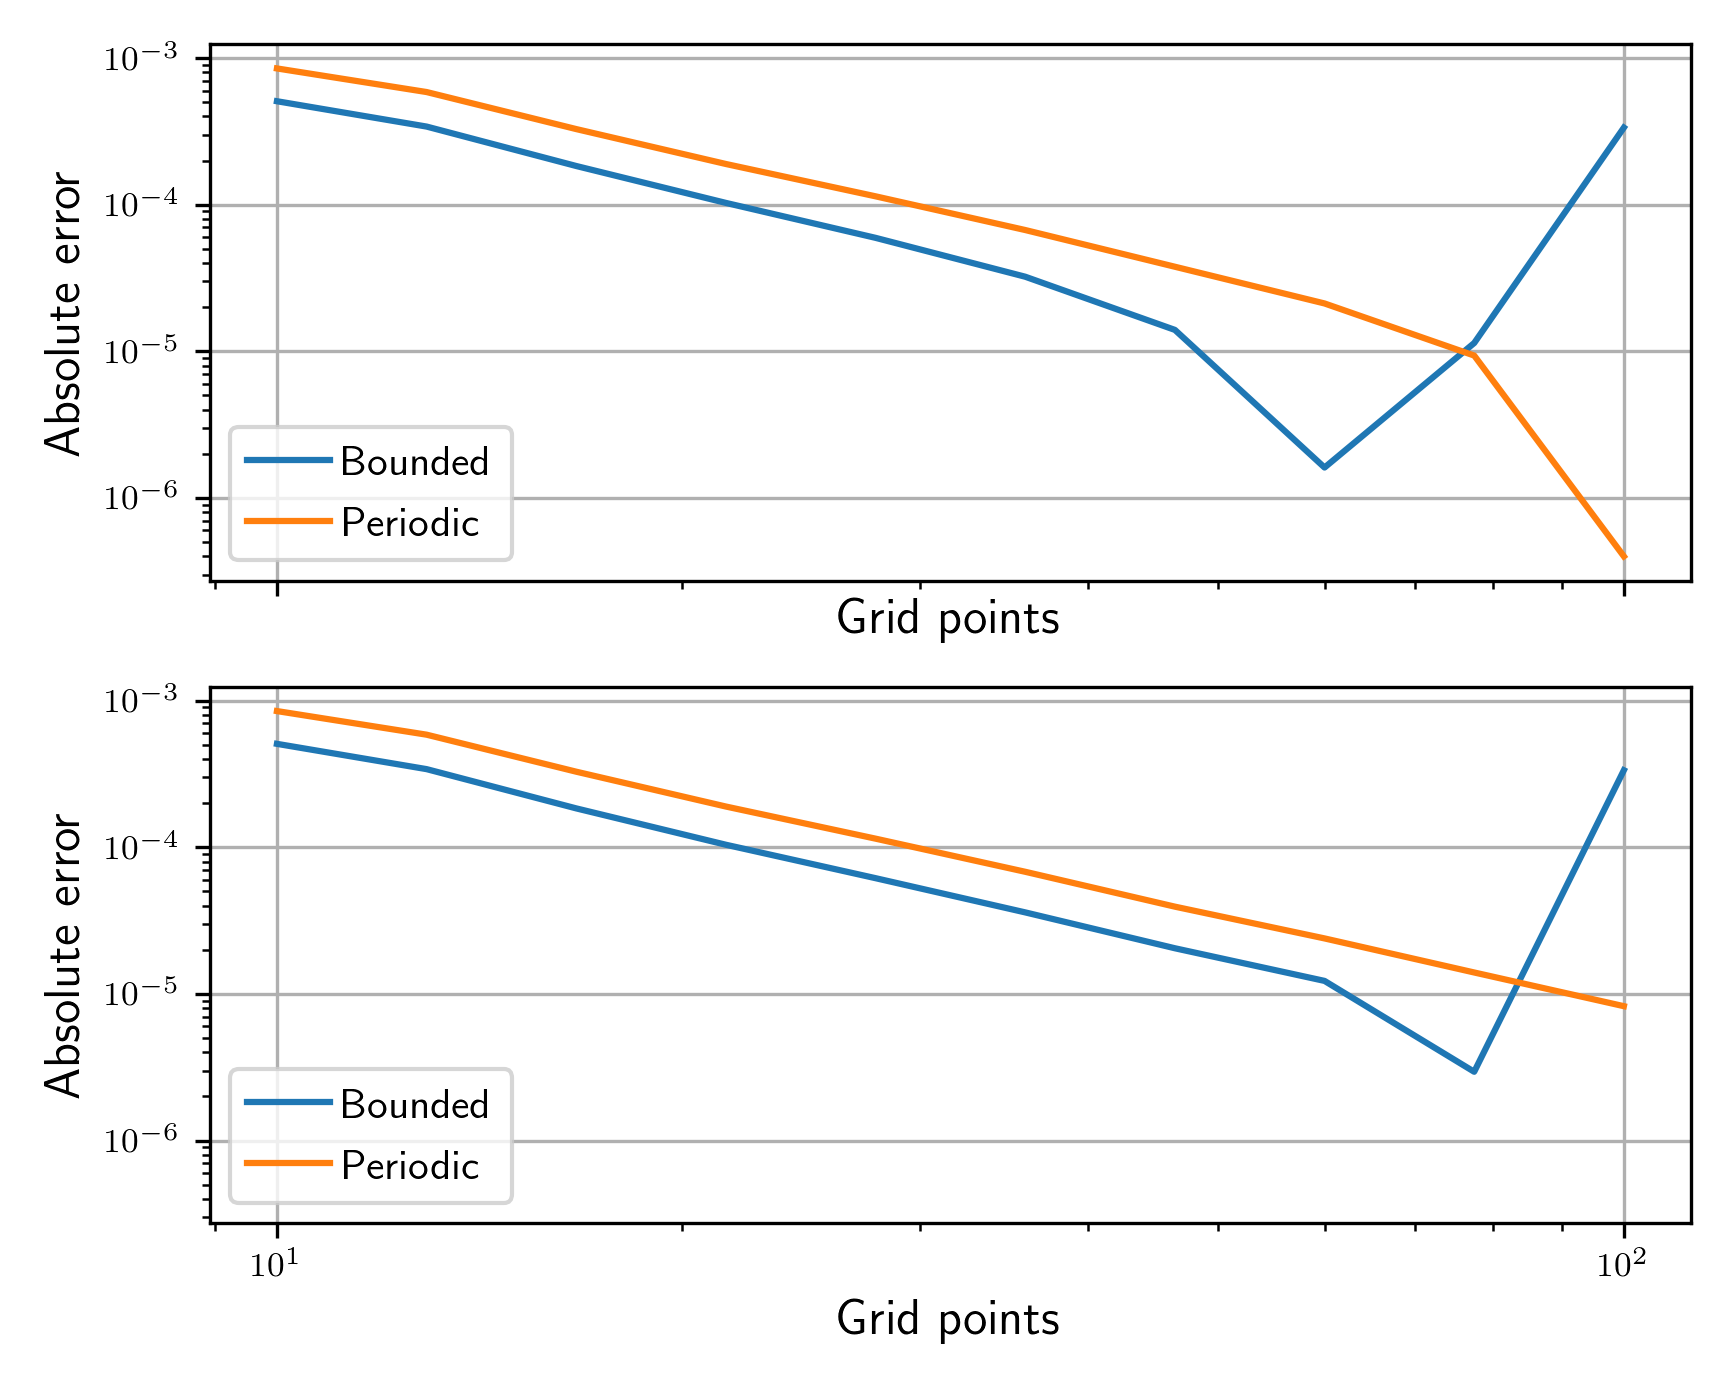
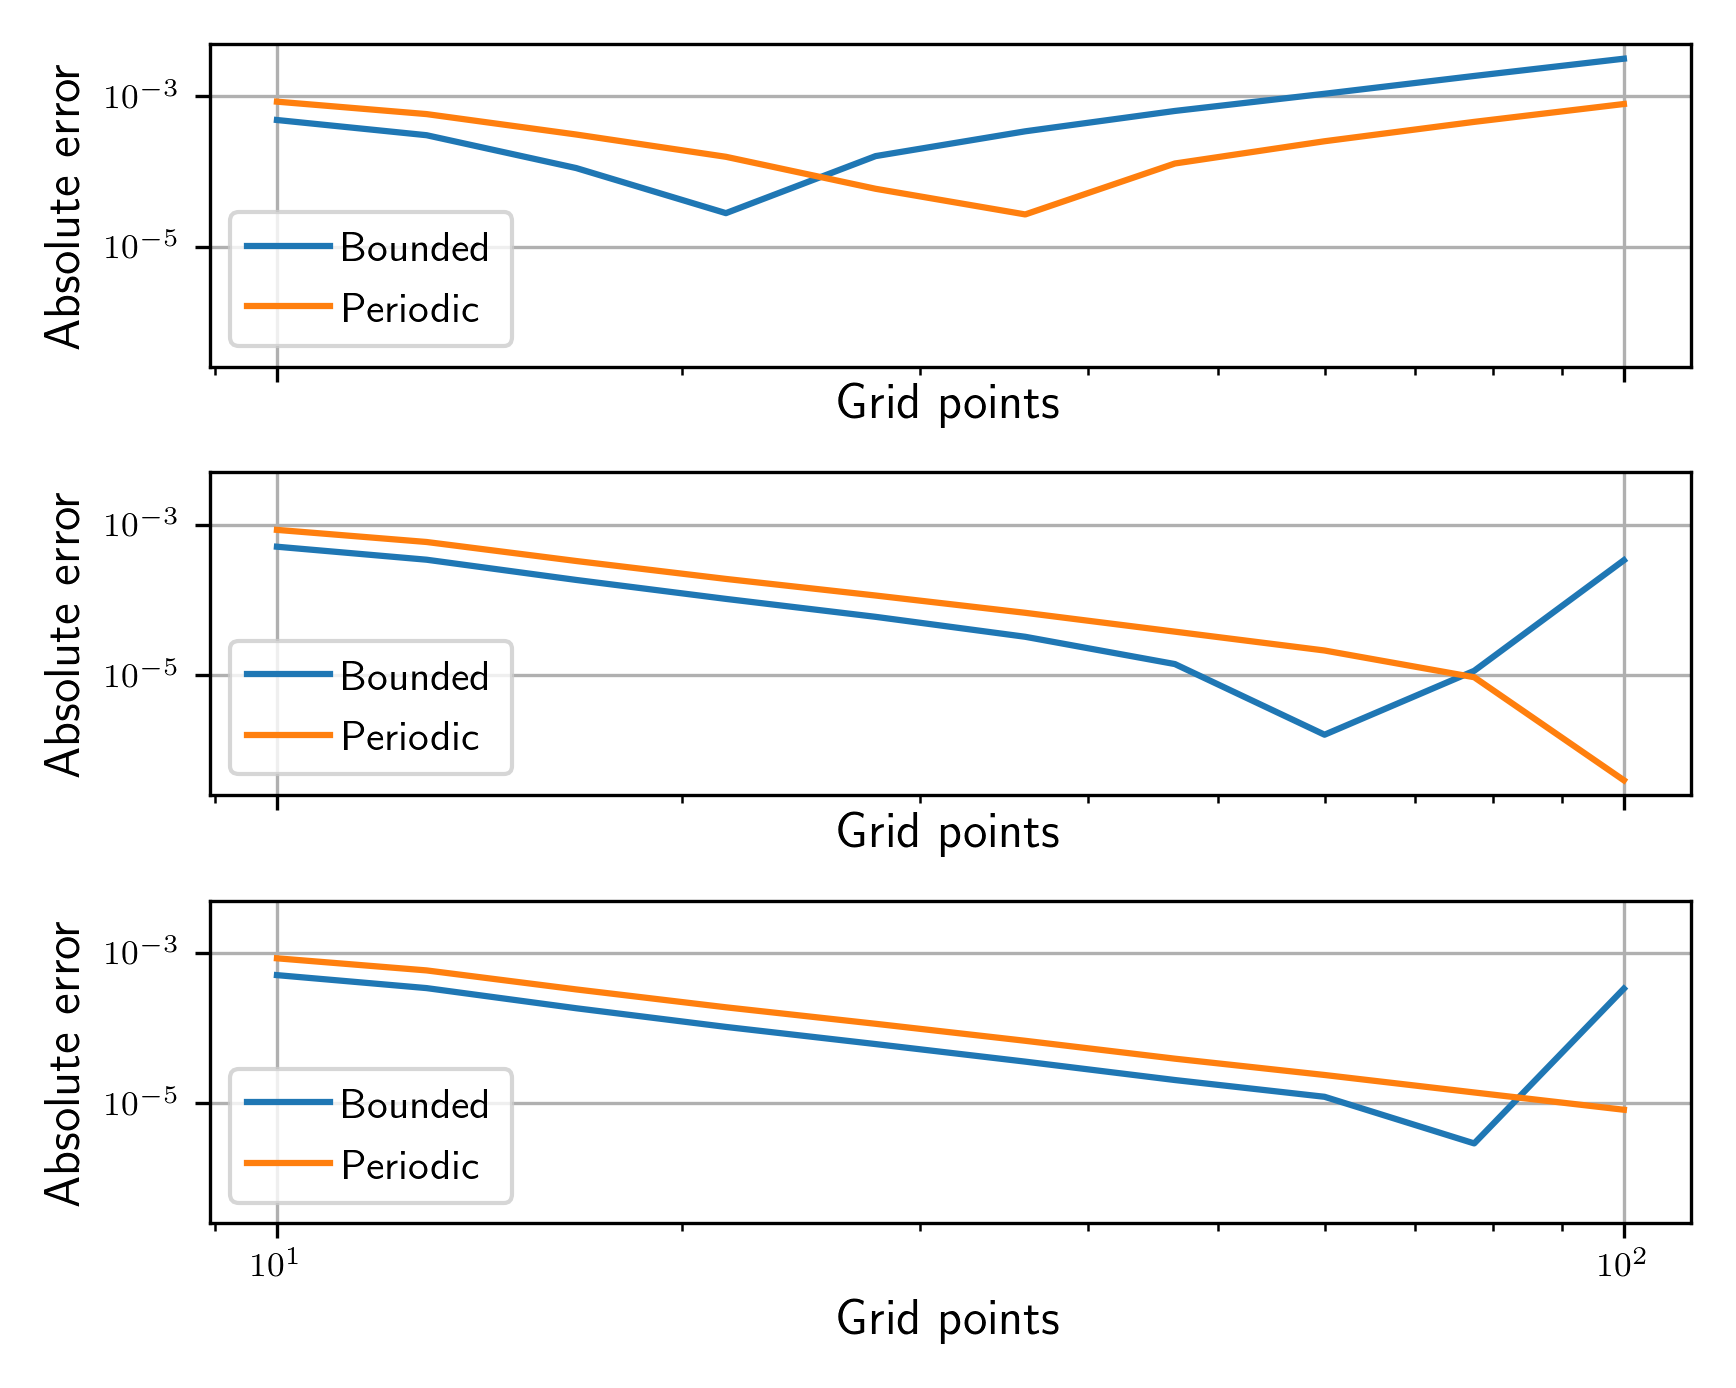
New figure error analysis

Changed region(s): [[0.0311, 0.031, 0.9954, 0.8365], [0.0311, 0.5886, 0.1244, 0.8674], [0.871, 0.1549, 0.9021, 0.2169]]

diff --git a/Project5/src/error.py b/Project5/src/error.py
@@ -11,7 +11,6 @@ def error_jacobi_periodic(target):
     for nx in nxs:
         print(nx)
         nx = int(nx)
-        # nx = int(nx)
         dx = 1/nx
         print('nx: {}, dx: {}'.format(nx, dx))
         x = np.linspace(0, 1 - dx, nx)
@@ -22,23 +21,13 @@ def error_jacobi_periodic(target):
         sol = -1/k**2 * np.cos(k*x)
         zeta = np.cos(k*x)
         od.poisson1d_periodic(psi, zeta, dx, nx, target=target)
-        # err = np.max(np.abs(sol[1:-1] - psi[1:-1]))
-        # relerr = relative_error(sol, psi)
         abserr = np.max(np.abs(sol - psi))
         print('Abs err jacobi 1d periodic: {}'.format(abserr))
         abserrors.append(abserr)
         relerr = relative_error(sol, psi)
         relerrors.append(relerr)
         print('Rel err jacobi 1d periodic: {}'.format(relerr))
-        # plt.plot(x, sol)
-        # plt.plot(x, psi)
-        # plt.show()
     return abserrors, relerrors, nxs
-    # plt.plot(nxs, abserrors, marker='x')
-    # plt.grid()
-    # plt.xscale('log')
-    # plt.yscale('log')
-    # plt.show()
 
 
 def error_jacobi_bounded(target):
@@ -46,7 +35,6 @@ def error_jacobi_bounded(target):
     relerrors = []
     nxs = np.logspace(1, 2, 10)
     for nx in nxs:
-
         nx = int(nx)
         dx = 1/(nx - 1)
         x = np.linspace(0, 1, nx)
@@ -65,11 +53,6 @@ def error_jacobi_bounded(target):
         abserrors.append(abserr)
         relerrors.append(relerr)
     return abserrors, relerrors, nxs
-    # plt.plot(nxs, abserrors, marker='x')
-    # plt.grid()
-    # plt.xscale('log')
-    # plt.yscale('log')
-    # plt.show()
 
 
 if __name__ == '__main__':

diff --git a/Project5/src/postprocess.py b/Project5/src/postprocess.py
@@ -103,11 +103,11 @@ def hovmuller_four(filenames, outfile):
     plt.rc('figure', autolayout=True)
 
 
-if __name__ == '__main__':
-
+def plot_error():
     # Error analysis jacobis method
-    fig, ax = plt.subplots(2, sharex=True, sharey=True,figsize=get_size(columns=2, ratio=0.8))
-    for target, axis in zip([1e-8, 1e-10], ax):
+    figsize = get_size(columns=2, ratio=0.8)
+    fig, ax = plt.subplots(3, sharex=True, sharey=True, figsize=figsize)
+    for target, axis in zip([1e-6, 1e-8, 1e-10], ax):
         abs, rel, nx = error_jacobi_bounded(target=target)
         axis.plot(nx, abs, label='Bounded')
         abs, rel, nx = error_jacobi_periodic(target=target)
@@ -122,11 +122,16 @@ if __name__ == '__main__':
     plt.savefig(FIGDIR + 'error_jacobi.pdf')
     plt.clf()
 
-    # # Bounded
+
+if __name__ == '__main__':
+
+    # Jacobi error
+    plot_error()
+    # Bounded
     hovmuller('psi_bounded_centered_sine')
     hovmuller('psi_bounded_centered_gauss')
 
-    # # Periodic
+    # Periodic
     hovmuller('psi_periodic_centered_short')
 
     times = [0, 50, 150, 300, 500]

diff --git a/Project5/latex/methods.tex b/Project5/latex/methods.tex
@@ -212,6 +212,18 @@ Tuning parameter of jacobis method.
   \centering
   \includegraphics[width=\textwidth]{../figures/error_jacobi.pdf}
   \caption{Absolute error of jacobis method
-  compared to analytical solutions of poissons equation. \num{1e-8}.}
+  compared to analytical solutions of poissons equation. Convergence parameter set to (from top to bottom) 10$^{-6}$, 10$^{-8}$, 10$^{-10}$ }
   \label{fig:periodic_sine}
+\end{figure}
+
+Since we are using close to 40 grid points for our simulations we ended up
+iterating until the difference between the iterations was less than 10$^{-8}$.
+
+\begin{figure}[htp]
+  \centering
+  \includegraphics[width=\textwidth]{../figures/compare_dt_1.pdf}
+  \caption{Comparison of solutions at different times using forward (top) and
+  centered (bottom) differences in time. The solution using forward differences
+  blows up quickly while the one using central differences does not.}
+  \label{fig:compare}
 \end{figure}

diff --git a/Project5/latex/results.tex b/Project5/latex/results.tex
@@ -1,14 +1,6 @@
 \section{Results}
 
 
-\begin{figure}[htp]
-  \centering
-  \includegraphics[width=\textwidth]{../figures/compare_dt_1.pdf}
-  \caption{Comparison of solutions at different times using forward (top) and
-  centered (bottom) differences in time. The solution using forward differences
-  blows up quickly while the one using central differences does not.}
-  \label{fig:compare}
-\end{figure}
 
 
 \subsection{Periodic}
